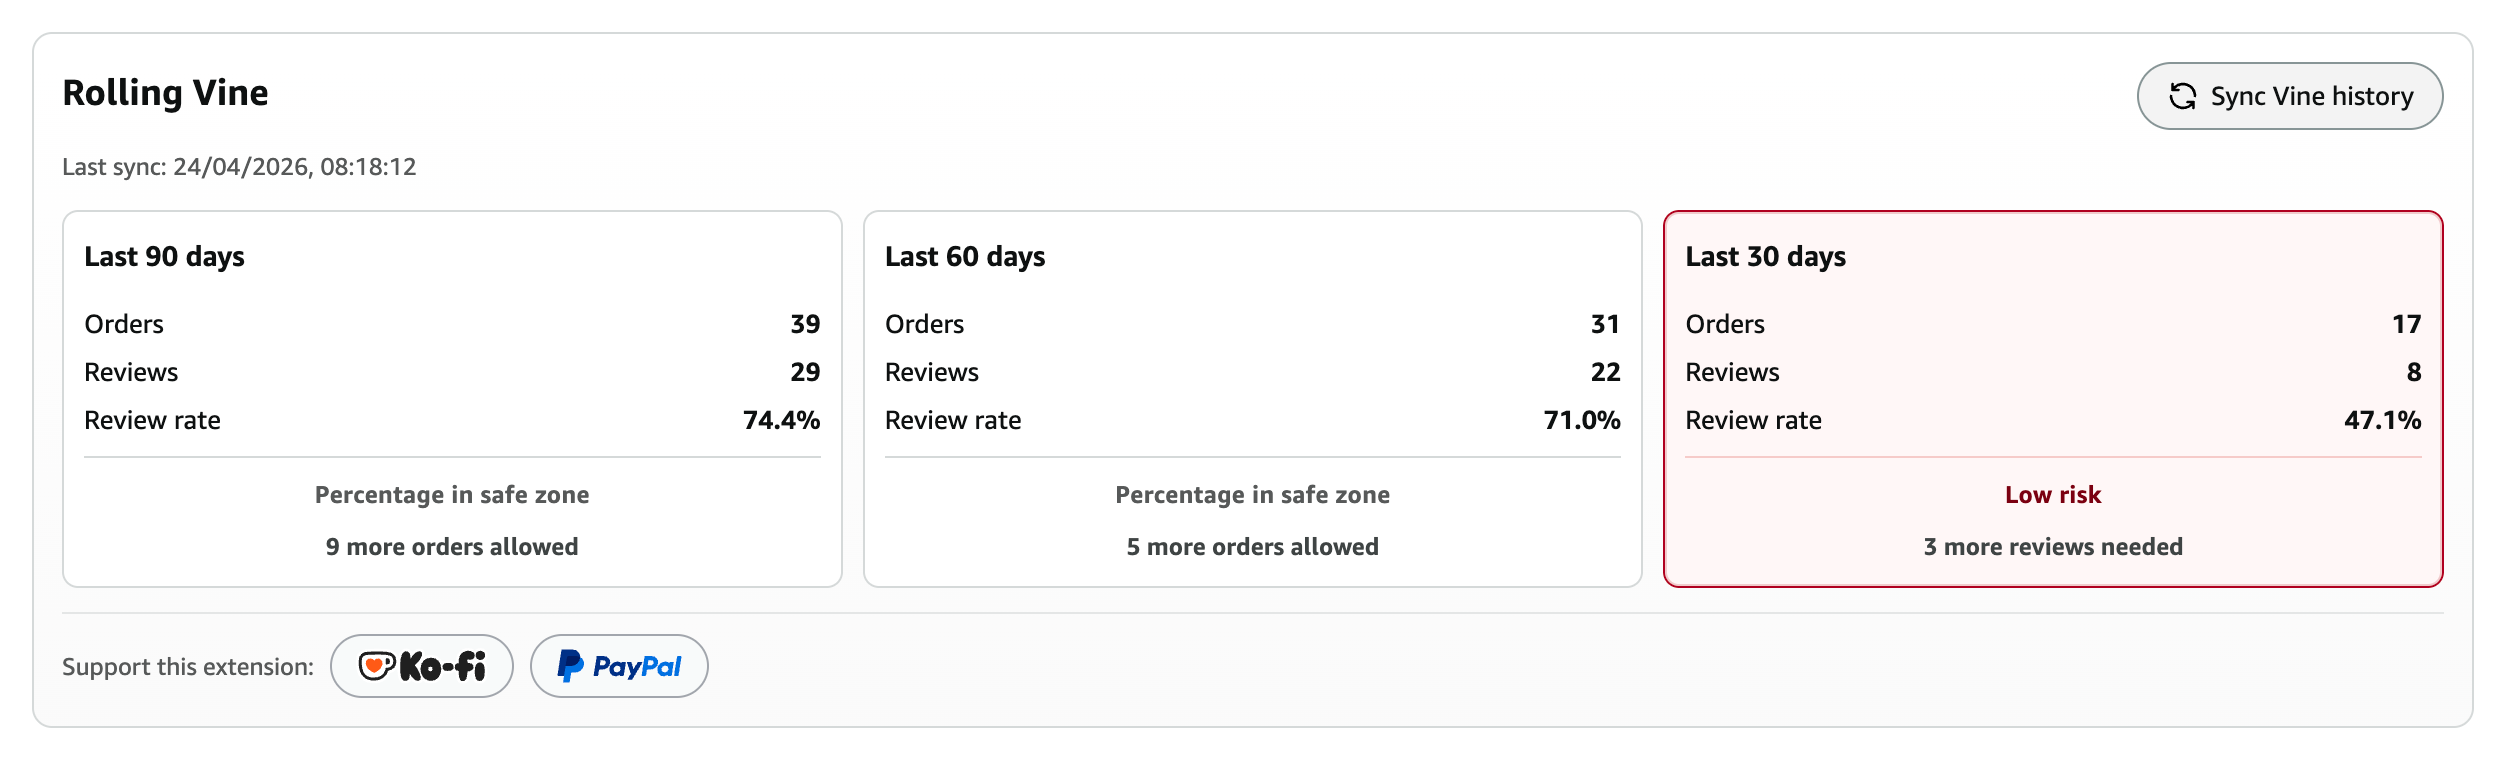
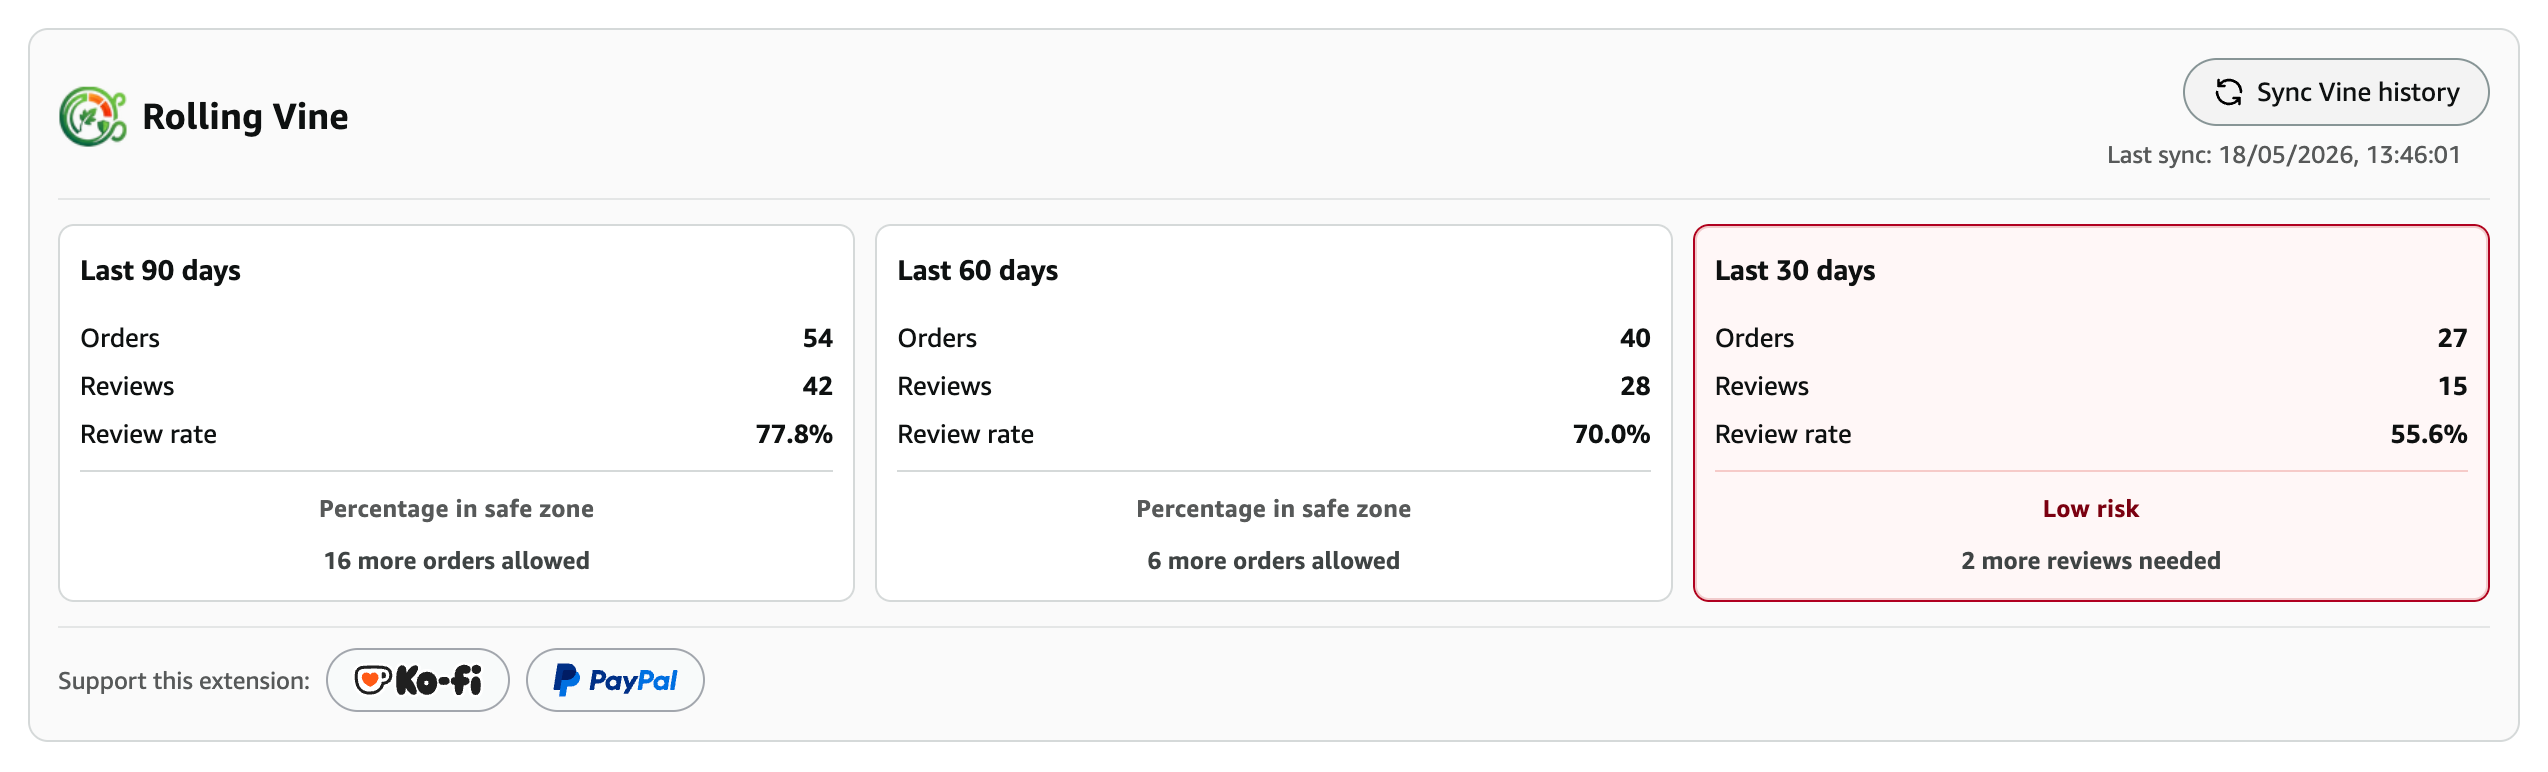
New release (v2.0.0)

diff --git a/README.md b/README.md
@@ -27,9 +27,14 @@ On the Vine Account page (`/vine/account`), the extension injects:
 	- Actionable info: how many more orders are allowed or reviews are needed
 - Sync controls:
 	- `Sync Vine history` button
+	- Live sync progress state (starting, orders, reviews)
 	- `Last sync: <timestamp>` label
+- Safe-stop feedback with localized reason when sync is interrupted (CAPTCHA, expired session, timeout, unexpected markup)
 - A compact donation row with links to Ko-fi and PayPal
-- All UI labels are automatically localized based on the Amazon domain (English, Italian, Spanish, German, French, Japanese)
+- All UI labels are localized (English, Italian, Spanish, German, French, Japanese)
+
+From the extension toolbar popup, you get a compact risk overview of your selected rolling periods.
+From the settings page, you can customize theme, card placement, visible periods, and language.
 
 <p align="center">
 	<img src="images/screenshot.png" alt="Rolling Vine screenshot" />
@@ -40,8 +45,8 @@ On the Vine Account page (`/vine/account`), the extension injects:
 Sync is user-triggered from your Vine Account page at `/vine/account`.
 
 1. User clicks `Sync Vine history`.
-2. Service worker opens a non-active background tab.
-3. Worker scans pages in this strict order:
+2. The background service worker starts a fetch-based sync job (no automatic tab opening or tab navigation).
+3. It requests paginated Vine pages in this strict order:
 	 - Orders:
 		 - `/vine/orders`
 		 - `/vine/orders?page=2`
@@ -52,9 +57,13 @@ Sync is user-triggered from your Vine Account page at `/vine/account`.
 		 - `/vine/vine-reviews?page=2&review-type=completed`
 		 - `/vine/vine-reviews?page=3&review-type=completed`
 		 - ...
-4. It counts only items in the last 90 days from sync start.
-5. It stops section scan when the parser detects older-than-90-day items or matches a cached checkpoint from the previous sync.
-6. It stores 90/60/30-day aggregates locally, caches order timestamps for incremental sync, and updates Account cards.
+4. Each page fetch uses retry attempts, timeout guards, and pacing delays.
+5. It counts only items in the last 90 days from sync start.
+6. It stops scanning when one of these conditions is met:
+	 - items older than 90 days are reached
+	 - no next page is available
+	 - for orders, the last known checkpoint timestamp is reached
+7. It stores 90/60/30-day aggregates locally, updates sync metadata, caches order timestamps for incremental sync, and refreshes UI data used by both the account page and popup.
 
 Sync uses a checkpoint cache: on subsequent runs it can skip already-scanned order pages, making repeat syncs faster.
 
@@ -65,11 +74,21 @@ The sync pipeline stops safely and immediately if it detects:
 - CAPTCHA pages
 - Login/session expiration
 - Empty or unexpected markup (no parsable records)
-- Navigation timeout
+- Request timeout or repeated fetch failures
 
 When safe-stop happens, previous valid metrics remain visible and the UI shows a user-friendly, localized message describing the specific reason (e.g. CAPTCHA requested, session expired, page timeout).
 
-The worker uses small bounded random delays between page transitions for load pacing and stability.
+The worker uses small bounded random delays between requests for load pacing and stability.
+
+## Settings and Customization
+
+The options page provides:
+
+- Theme: Auto, Light, Dark
+- Card placement on `/vine/account`: Above or Below official metrics
+- Visible rolling periods: 90 days (always enabled), optional 60 days and 30 days
+- UI language override: Auto, English, Italian, Spanish, German, French, Japanese
+- Full reset action for extension settings and stored metrics
 
 ## Data Model and Risk Logic
 
@@ -164,6 +183,13 @@ npm run lint
 1. Open `about:debugging#/runtime/this-firefox`
 2. Click `Load Temporary Add-on`
 3. Select `dist/firefox/manifest.json` (or `src/manifest.json`)
+
+### Edge
+
+1. Open `edge://extensions`
+2. Enable Developer mode
+3. Click `Load unpacked`
+4. Select `dist/chrome` (or `src` for quick dev)
 
 ## Assumptions and Limitations
 
